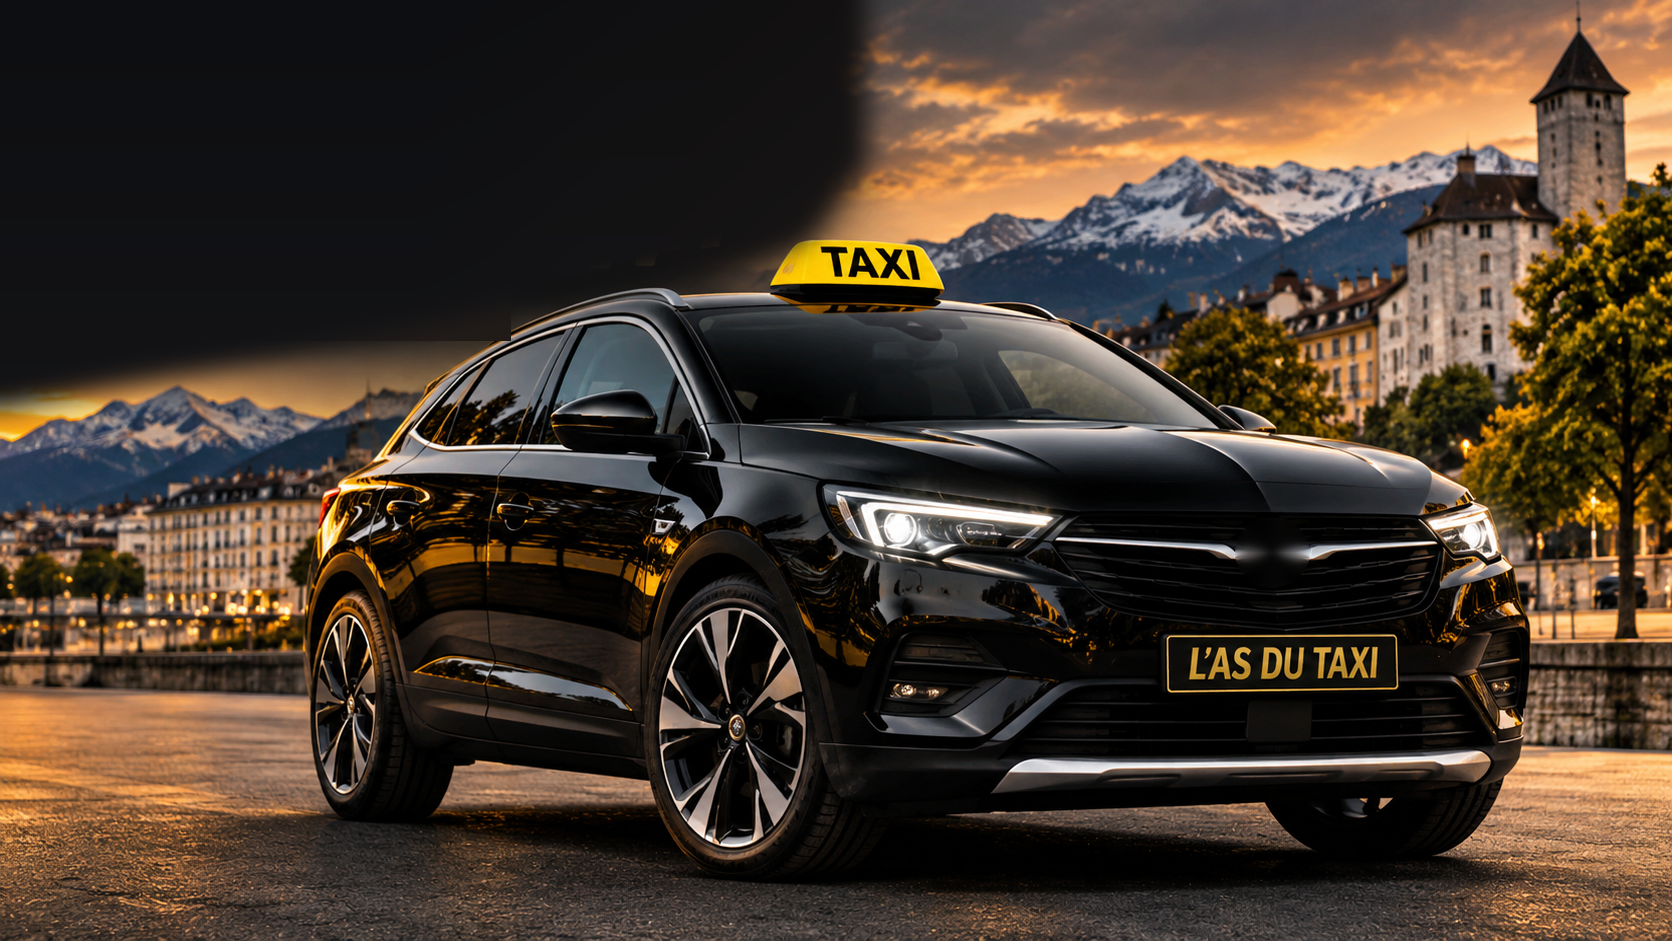
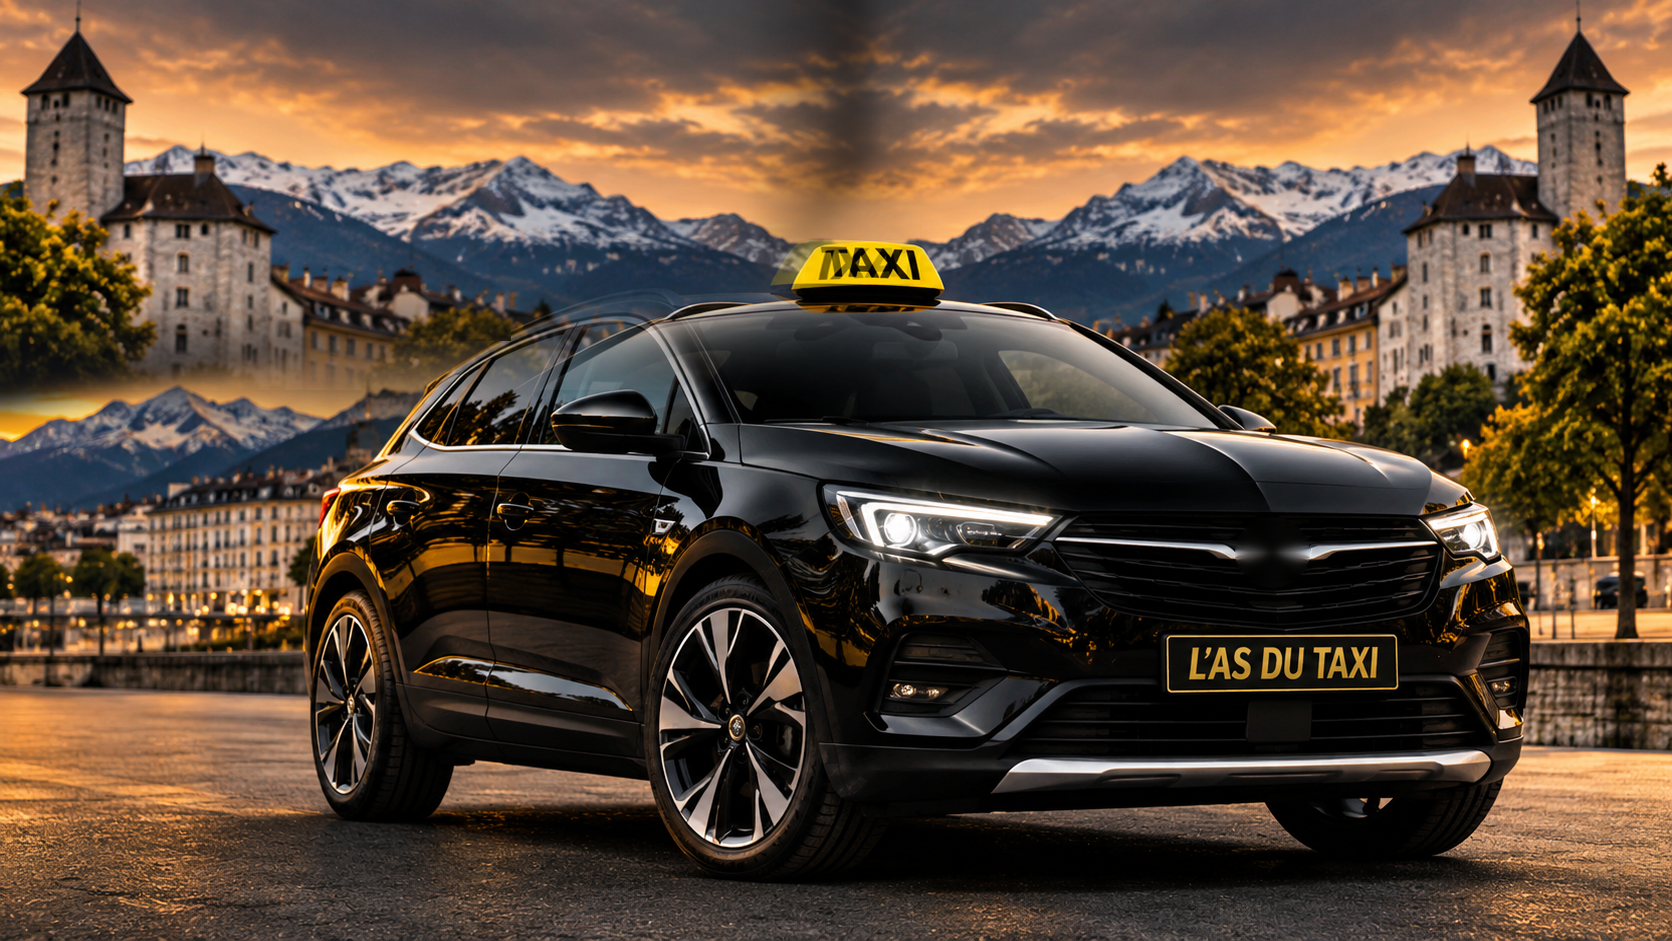
Add files via upload

Changed region(s): [[0.0, 0.0, 0.5287, 0.4006]]

diff --git a/style.css b/style.css
@@ -97,3 +97,16 @@
 .header .brand-spade{font-family:Georgia,serif;font-size:44px;color:#e7bd67;line-height:1;text-shadow:none}
 .header .brand-wordmark{font-family:Georgia,serif;font-size:clamp(17px,1.7vw,23px);font-weight:700;letter-spacing:.02em;color:#fff}
 @media(max-width:650px){.header .brand-spade{font-size:35px}.header .brand-wordmark{font-size:16px}}
+
+/* Mobile only: show the banner photograph without the dark overlay.
+   Desktop styling remains unchanged. */
+@media (max-width: 700px) {
+  .hero { background-image: none !important; }
+  .hero::before {
+    background-image: url('/taxi-premium.png') !important;
+    background-color: transparent !important;
+    background-blend-mode: normal !important;
+    background-position: 70% 45% !important;
+  }
+  .hero::after { display: none !important; }
+}
